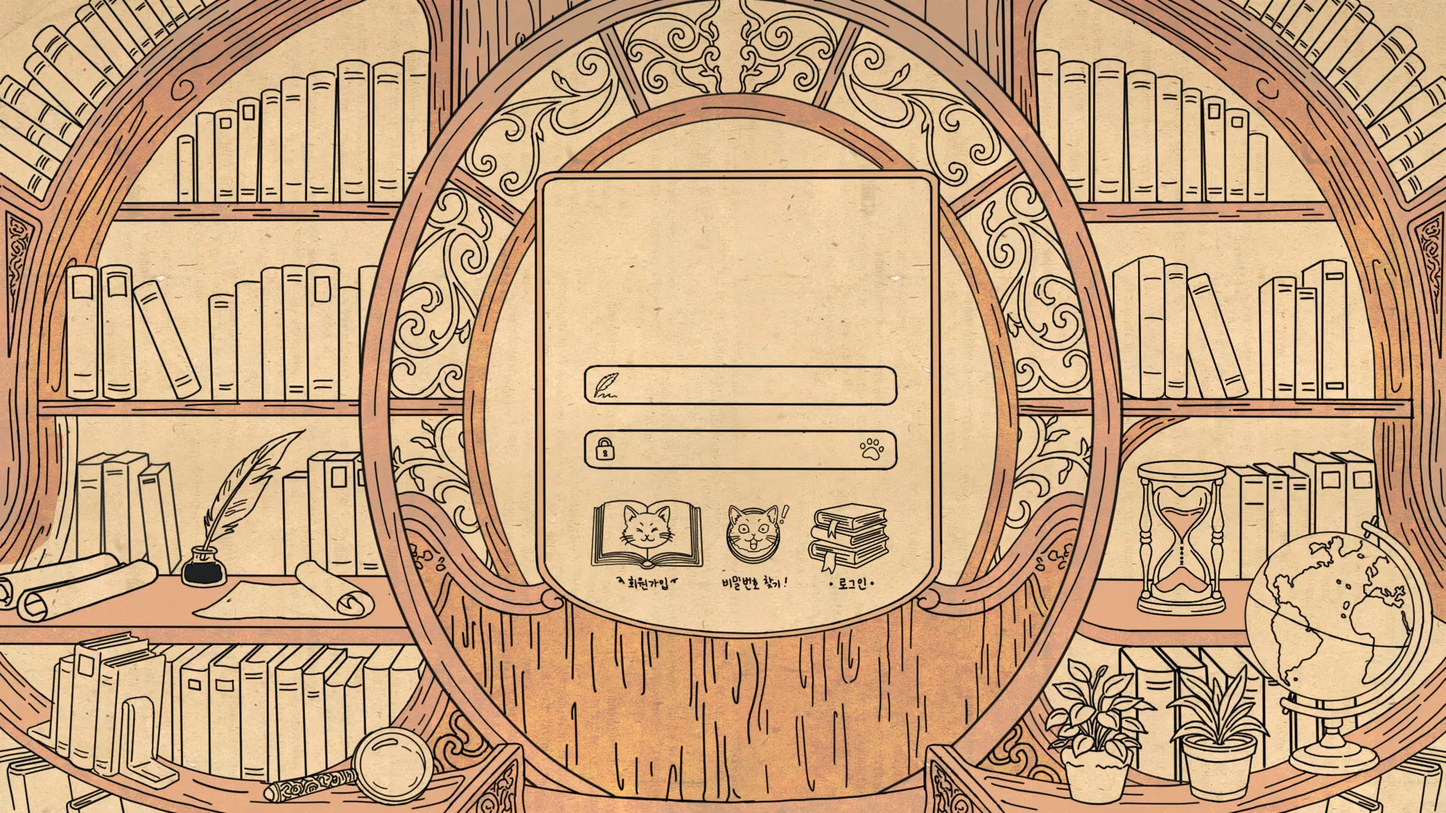
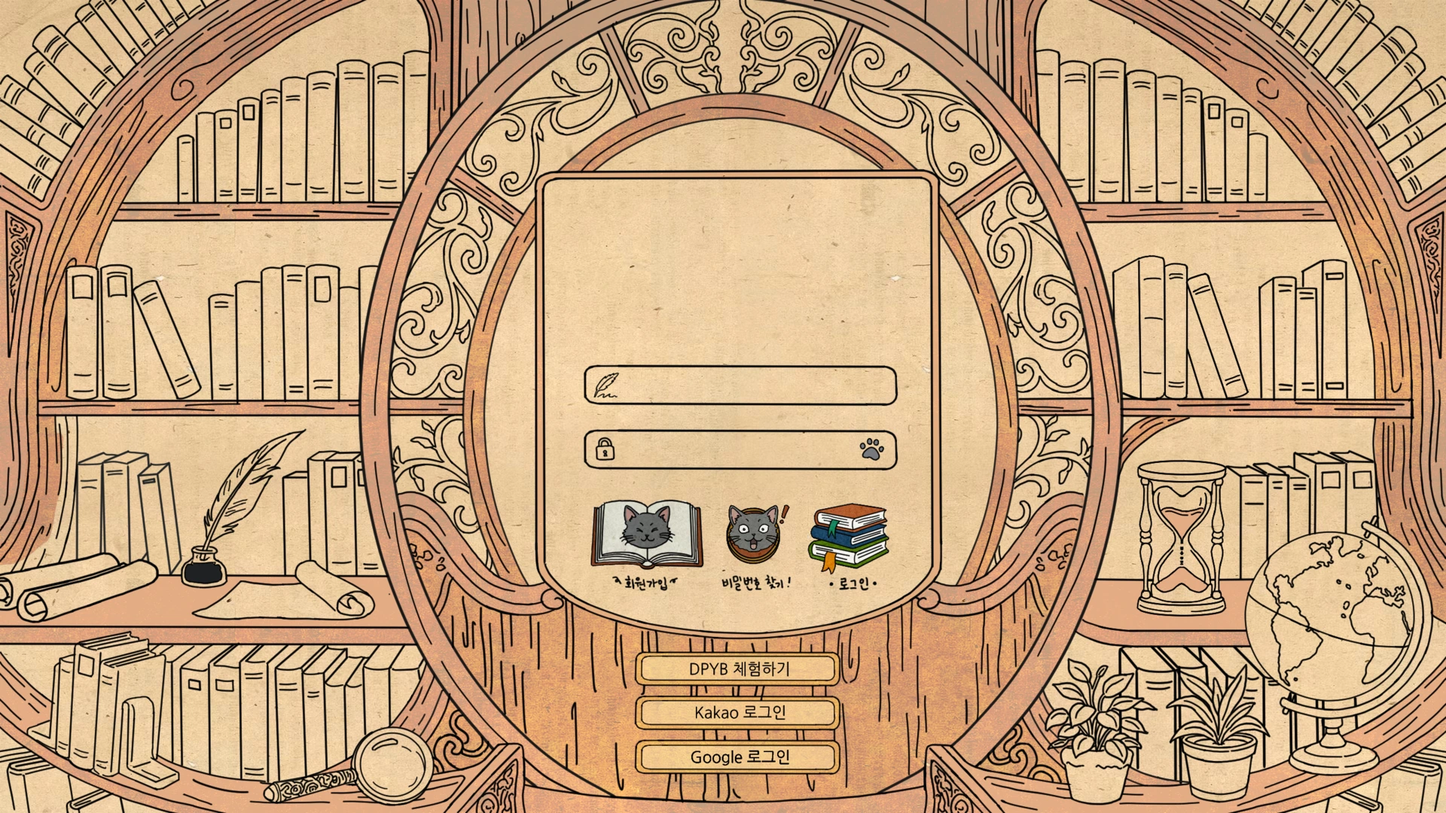
feat[login]: 로그인 페이지 신규 UI 적용 및 소셜·체험 버튼 이미지 전환 (#33)

Changed region(s): [[0.4375, 0.7944, 0.5938, 0.9778], [0.4062, 0.6111, 0.625, 0.7333], [0.5938, 0.55, 0.625, 0.5806]]

diff --git a/app/pages/LoginPage.jsx b/app/pages/LoginPage.jsx
@@ -37,6 +37,37 @@ const BUTTONS = [
     tooltip: '비밀번호 보기',
     left: 59.2, top: 53.3, width: 2.2, height: 3.8,
   },
+  /*
+   * 하단 3버튼 (2026-09 신규 UI). 기존 버튼들과 동일한 방식 — 배경 시안에 버튼이
+   * 그려져 있고, 같은 좌표의 투명 2560x1440 레이어를 덮어 hover 밝기 효과를 준다.
+   *
+   * 세 버튼은 테두리 선만 있는 둥근 사각형이고 내부는 완전히 비어 있어(알파 0),
+   * 클릭 영역은 "선 안쪽"이 되도록 알파 bbox에서 선 두께만큼 안쪽으로 줄인 값을 쓴다.
+   * 2560x1440 기준 실측:
+   *   알파 bbox(선 외곽 포함)  366x63 — dpyb +1123+1154 / kakao +1123+1232 / google +1123+1310
+   *   선 두께                  좌우·상하 각 약 3~4px
+   *   선 안쪽(내부) 영역        bbox 기준 x 4~361(358px), y 4~57(54px)
+   * → left 1127/2560=44.0%, width 358/2560=13.98%, height 54/1440=3.75%
+   *   top  dpyb 1158/1440=80.42% / kakao 1236/1440=85.83% / google 1314/1440=91.25%
+   */
+  {
+    id: 'dpyb',
+    src: '/button/dpyb_btn.webp',
+    tooltip: 'DPYB 체험하기 (로그인 없이 둘러보기)',
+    left: 44.0, top: 80.42, width: 13.98, height: 3.75,
+  },
+  {
+    id: 'kakao',
+    src: '/button/kakao_btn.webp',
+    tooltip: '카카오 계정으로 로그인',
+    left: 44.0, top: 85.83, width: 13.98, height: 3.75,
+  },
+  {
+    id: 'google',
+    src: '/button/google_btn.webp',
+    tooltip: 'Google 계정으로 로그인',
+    left: 44.0, top: 91.25, width: 13.98, height: 3.75,
+  },
 ];
 
 // 입력 필드 위치 (bbox 비율)
@@ -233,7 +264,7 @@ export default function LoginPage() {
         googleClientId,
         (token) => handleSocialSuccess('google', token),
         (err) => console.warn('Google button init failed:', err)
-      ).catch(() => {});
+      ).catch(() => { });
     }
   }, [googleClientId, handleSocialSuccess]);
 
@@ -251,7 +282,23 @@ export default function LoginPage() {
       case 'eye':
         handleEyeClick();
         break;
+      case 'google':
+        handleGoogleClick();
+        break;
+      case 'kakao':
+        handleKakaoClick();
+        break;
+      case 'dpyb':
+        handleGuestLogin();
+        break;
     }
+  };
+
+  /** 버튼별 비활성 조건 — 로그인은 입력 검증, 소셜/체험은 요청 중(loading)일 때 잠근다. */
+  const isButtonDisabled = (id) => {
+    if (id === 'login') return !isLoginEnabled;
+    if (id === 'google' || id === 'kakao' || id === 'dpyb') return loading;
+    return false;
   };
 
   return (
@@ -338,74 +385,20 @@ export default function LoginPage() {
             key={btn.id}
             btn={resolvedBtn}
             onClick={() => handleClick(btn.id)}
-            disabled={btn.id === 'login' && !isLoginEnabled}
+            disabled={isButtonDisabled(btn.id)}
           />
         );
       })}
 
-      {/* 소셜 로그인 및 체험 모드 버튼 */}
-      <div className="login-social-container">
-        <div className="login-social-buttons">
-          <button
-            type="button"
-            className="social-btn social-btn--google"
-            onClick={handleGoogleClick}
-            disabled={loading}
-            aria-label="Google 계정으로 로그인"
-          >
-            <svg className="social-icon" viewBox="0 0 24 24" width="20" height="20">
-              <path
-                fill="#4285F4"
-                d="M22.56 12.25c0-.78-.07-1.53-.2-2.25H12v4.26h5.92c-.26 1.37-1.04 2.53-2.21 3.31v2.77h3.57c2.08-1.92 3.28-4.74 3.28-8.09z"
-              />
-              <path
-                fill="#34A853"
-                d="M12 23c2.97 0 5.46-.98 7.28-2.66l-3.57-2.77c-.98.66-2.23 1.06-3.71 1.06-2.86 0-5.29-1.93-6.16-4.53H2.18v2.84C3.99 20.53 7.7 23 12 23z"
-              />
-              <path
-                fill="#FBBC05"
-                d="M5.84 14.09c-.22-.66-.35-1.36-.35-2.09s.13-1.43.35-2.09V7.06H2.18C1.43 8.55 1 10.22 1 12s.43 3.45 1.18 4.94l2.85-2.22.81-.63z"
-              />
-              <path
-                fill="#EA4335"
-                d="M12 5.38c1.62 0 3.06.56 4.21 1.64l3.15-3.15C17.45 2.09 14.97 1 12 1 7.7 1 3.99 3.47 2.18 7.06l3.66 2.84c.87-2.6 3.3-4.52 6.16-4.52z"
-              />
-            </svg>
-            <span className="social-text">Google 로그인</span>
-          </button>
+      {/*
+        소셜 로그인(Google/Kakao)·DPYB 체험하기 버튼은 위 BUTTONS 배열의 이미지 레이어
+        방식으로 통합했다(2026-09 신규 UI). 예전에는 배경 시안에 이 버튼들이 없어 CSS로
+        만든 별도 버튼(.login-social-container)을 화면 하단에 띄웠는데, 새 시안에 세
+        버튼이 그려져 들어오면서 다른 버튼들과 같은 방식으로 맞췄다.
+      */}
 
-          <button
-            type="button"
-            className="social-btn social-btn--kakao"
-            onClick={handleKakaoClick}
-            disabled={loading}
-            aria-label="카카오 계정으로 로그인"
-          >
-            <svg className="social-icon" viewBox="0 0 24 24" width="20" height="20">
-              <path
-                fill="#000000"
-                d="M12 3C6.48 3 2 6.48 2 10.77c0 2.78 1.87 5.22 4.67 6.55-.21.77-.75 2.78-.86 3.21-.13.54.2.53.42.38.17-.11 2.76-1.88 3.87-2.64.63.09 1.26.14 1.9.14 5.52 0 10-3.48 10-7.77C22 6.48 17.52 3 12 3z"
-              />
-            </svg>
-            <span className="social-text">카카오 로그인</span>
-          </button>
-        </div>
-
-        {/* DPYB 체험하기 (게스트 체험 모드) 버튼 */}
-        <button
-          type="button"
-          className="guest-experience-btn"
-          onClick={handleGuestLogin}
-          disabled={loading}
-          aria-label="DPYB 체험하기"
-        >
-          <span className="guest-paw-icon">🐾</span>
-          <span className="guest-btn-text">DPYB 체험하기 (로그인 없이 둘러보기)</span>
-        </button>
-
-        {/* 숨김 처리된 Google 표준 버튼 렌더링 컨테이너 (필요 시 One Tap 트리거) */}
-        <div ref={googleBtnRef} style={{ display: 'none' }} />
-      </div>
+      {/* 숨김 처리된 Google 표준 버튼 렌더링 컨테이너 (필요 시 One Tap 트리거) */}
+      <div ref={googleBtnRef} style={{ display: 'none' }} />
 
       {/* 비밀번호 표시 상태 인디케이터 */}
       {eyeActive && (

diff --git a/app/pages/LoginPage.css b/app/pages/LoginPage.css
@@ -203,114 +203,10 @@
   z-index: 10;
 }
 
-/* 소셜 로그인 컨테이너 (디자인 확정 전 기본 레이아웃 와꾸) */
-.login-social-container {
-  position: absolute;
-  left: 50%;
-  bottom: 3.5vh;
-  transform: translateX(-50%);
-  display: flex;
-  flex-direction: column;
-  align-items: center;
-  gap: 10px;
-  z-index: 10;
-  width: 100%;
-  max-width: 320px;
-}
-
-
-.login-social-buttons {
-  display: flex;
-  gap: 12px;
-  width: 100%;
-  justify-content: center;
-}
-
-.social-btn {
-  flex: 1;
-  display: inline-flex;
-  align-items: center;
-  justify-content: center;
-  gap: 8px;
-  height: 42px;
-  padding: 0 16px;
-  border-radius: 10px;
-  border: 1px solid rgba(0, 0, 0, 0.08);
-  font-size: 14px;
-  font-weight: 600;
-  cursor: pointer;
-  box-shadow: 0 2px 6px rgba(0, 0, 0, 0.1);
-  transition: transform 0.15s ease, filter 0.15s ease, box-shadow 0.15s ease;
-  white-space: nowrap;
-}
-
-.social-btn:hover:not(:disabled) {
-  transform: translateY(-2px);
-  filter: brightness(1.03);
-  box-shadow: 0 4px 10px rgba(0, 0, 0, 0.15);
-}
-
-.social-btn:active:not(:disabled) {
-  transform: translateY(0);
-}
-
-.social-btn:disabled {
-  opacity: 0.6;
-  cursor: not-allowed;
-}
-
-.social-btn--google {
-  background-color: #ffffff;
-  color: #3c4043;
-}
-
-.social-btn--kakao {
-  background-color: #fee500;
-  color: rgba(0, 0, 0, 0.85);
-  border-color: rgba(0, 0, 0, 0.04);
-}
-
-.social-icon {
-  flex-shrink: 0;
-}
-
-/* DPYB 체험하기 (게스트 모드) 버튼 */
-.guest-experience-btn {
-  width: 100%;
-  display: inline-flex;
-  align-items: center;
-  justify-content: center;
-  gap: 8px;
-  height: 42px;
-  padding: 0 16px;
-  border-radius: 10px;
-  border: 1px solid var(--accent, #ff9a3c);
-  background: rgba(255, 255, 255, 0.85);
-  backdrop-filter: blur(4px);
-  color: #2a1809;
-  font-size: 14px;
-  font-weight: 700;
-  cursor: pointer;
-  box-shadow: 0 2px 8px rgba(255, 154, 60, 0.25);
-  transition: transform 0.15s ease, background 0.15s ease, box-shadow 0.15s ease;
-}
-
-.guest-experience-btn:hover:not(:disabled) {
-  transform: translateY(-2px);
-  background: #ffffff;
-  box-shadow: 0 4px 12px rgba(255, 154, 60, 0.4);
-}
-
-.guest-experience-btn:active:not(:disabled) {
-  transform: translateY(0);
-}
-
-.guest-experience-btn:disabled {
-  opacity: 0.6;
-  cursor: not-allowed;
-}
-
-.guest-paw-icon {
-  font-size: 16px;
-}
-
+/*
+ * 2026-09: 소셜 로그인(Google/Kakao)·DPYB 체험하기 버튼이 새 로그인 시안에 그려져
+ * 들어오면서, CSS로 만들었던 별도 버튼(.login-social-container, .login-social-buttons,
+ * .social-btn*, .social-icon, .guest-experience-btn, .guest-paw-icon)을 제거했다.
+ * 세 버튼은 이제 다른 버튼들과 동일하게 LoginPage.jsx의 BUTTONS 이미지 레이어 +
+ * .login-hit-area(선 안쪽 좌표) 방식으로 처리한다.
+ */

diff --git a/.harness/HANDOFF.md b/.harness/HANDOFF.md
@@ -1,5 +1,27 @@
 # HANDOFF (세션별 서술 로그, append-only)
 
+## 2026-09-19: 로그인 페이지 신규 UI 적용 및 소셜/체험 버튼 이미지 전환
+- 작업 브랜치: `feat/로그인페이지-신규UI`
+- **배경**: 새 로그인 시안(`loginPage_new`)에 Google 로그인·Kakao 로그인·DPYB 체험하기 버튼이 그려져 들어옴. 기존에는 이 세 버튼이 시안에 없어 CSS로 만든 별도 버튼을 화면 하단에 띄우고 있었음.
+- **에셋 변환 (서재 이미지와 동일한 규칙)**:
+  - `loginPage_new.png`(2560x1440, 5.5MB) → `public/login-bg.webp`(1920x1080, 779KB, quality 92)로 교체. 배경 에셋은 1920px webp 규칙을 따름
+  - `google_button.png` / `kako_button.png` / `dpyb_button.png` → `public/button/{google,kakao,dpyb}_btn.webp`(각 2560x1440 유지, ~9.6KB). 버튼 오버레이는 좌표 정합을 위해 2560x1440 원본 해상도를 유지하는 기존 규칙을 따름(투명 배경 보존)
+  - 변환 후 원본 PNG 4개 삭제
+- **클릭 영역을 "선 안쪽"으로 정밀 산출**:
+  - 세 버튼은 테두리 선만 그려져 있고 내부는 알파 0(완전 투명)임을 픽셀 단위로 확인
+  - 알파 bbox는 366x63(선 외곽 포함), 선 두께는 상하좌우 약 3~4px → 내부 영역은 bbox 기준 x 4~361(358px), y 4~57(54px)
+  - 이를 백분율로 환산해 히트 영역을 선 안쪽에 맞춤: `left 44.0%`, `width 13.98%`, `height 3.75%`, `top` dpyb 80.42% / kakao 85.83% / google 91.25%
+- **수정 내용**:
+  - `app/pages/LoginPage.jsx`:
+    - `BUTTONS` 배열에 `dpyb`/`kakao`/`google` 3개 추가(기존 버튼과 동일한 이미지 레이어 + 히트 영역 방식, hover 밝기 효과 자동 적용)
+    - `handleClick`에 `google`→`handleGoogleClick`, `kakao`→`handleKakaoClick`, `dpyb`→`handleGuestLogin` 연결
+    - `isButtonDisabled(id)` 헬퍼 신설 — 로그인은 입력 검증(`!isLoginEnabled`), 소셜/체험은 요청 중(`loading`) 기준으로 분기(기존엔 로그인 버튼만 disabled 처리)
+    - 기존 CSS 기반 소셜/체험 버튼 JSX(`.login-social-container` 블록) 제거. Google One Tap용 숨김 컨테이너(`googleBtnRef`)는 `renderGoogleButton`이 참조하므로 유지
+  - `app/pages/LoginPage.css`: 미사용이 된 `.login-social-container`, `.login-social-buttons`, `.social-btn*`, `.social-icon`, `.guest-experience-btn`, `.guest-paw-icon` 제거
+  - 기존 버튼(회원가입·비밀번호 찾기·로그인·발바닥 토글)과 입력 필드 좌표는 사용자 요청대로 현재 상태 그대로 유지(변경 없음)
+- **검증**: `npx eslint app/pages/LoginPage.jsx` 통과(0 issue), `npm run build` 성공(dist 삭제 완료)
+- ⚠ 실제 화면에서 세 버튼의 클릭 영역이 선 안쪽에 정확히 맞는지, 16:9가 아닌 화면비에서 배경 `object-fit: cover` 크롭으로 좌표가 밀리지 않는지 육안 확인 권장
+
 ## 2026-09-19: 누디 사서 전용 컬러 팔레트(청록/그린) 전 페이지 적용
 - 작업 브랜치: `feat/누디-컬러-팔레트`
 - **배경**: 고양이(주황)·황새(보라)처럼 사서별 테마 컬러가 `data-librarian` 속성 기반으로 앱 전체(GNB, 채팅, 버튼 등)에 자동 적용되는 기존 구조가 있음. 누디는 이 구조에 아직 값이 없어 항상 고양이(주황) 팔레트로 대체 표시되고 있었음. 사용자가 누디 서재 배경 이미지(청록/그린 톤)와 어울리는 팔레트로 지정 요청.
